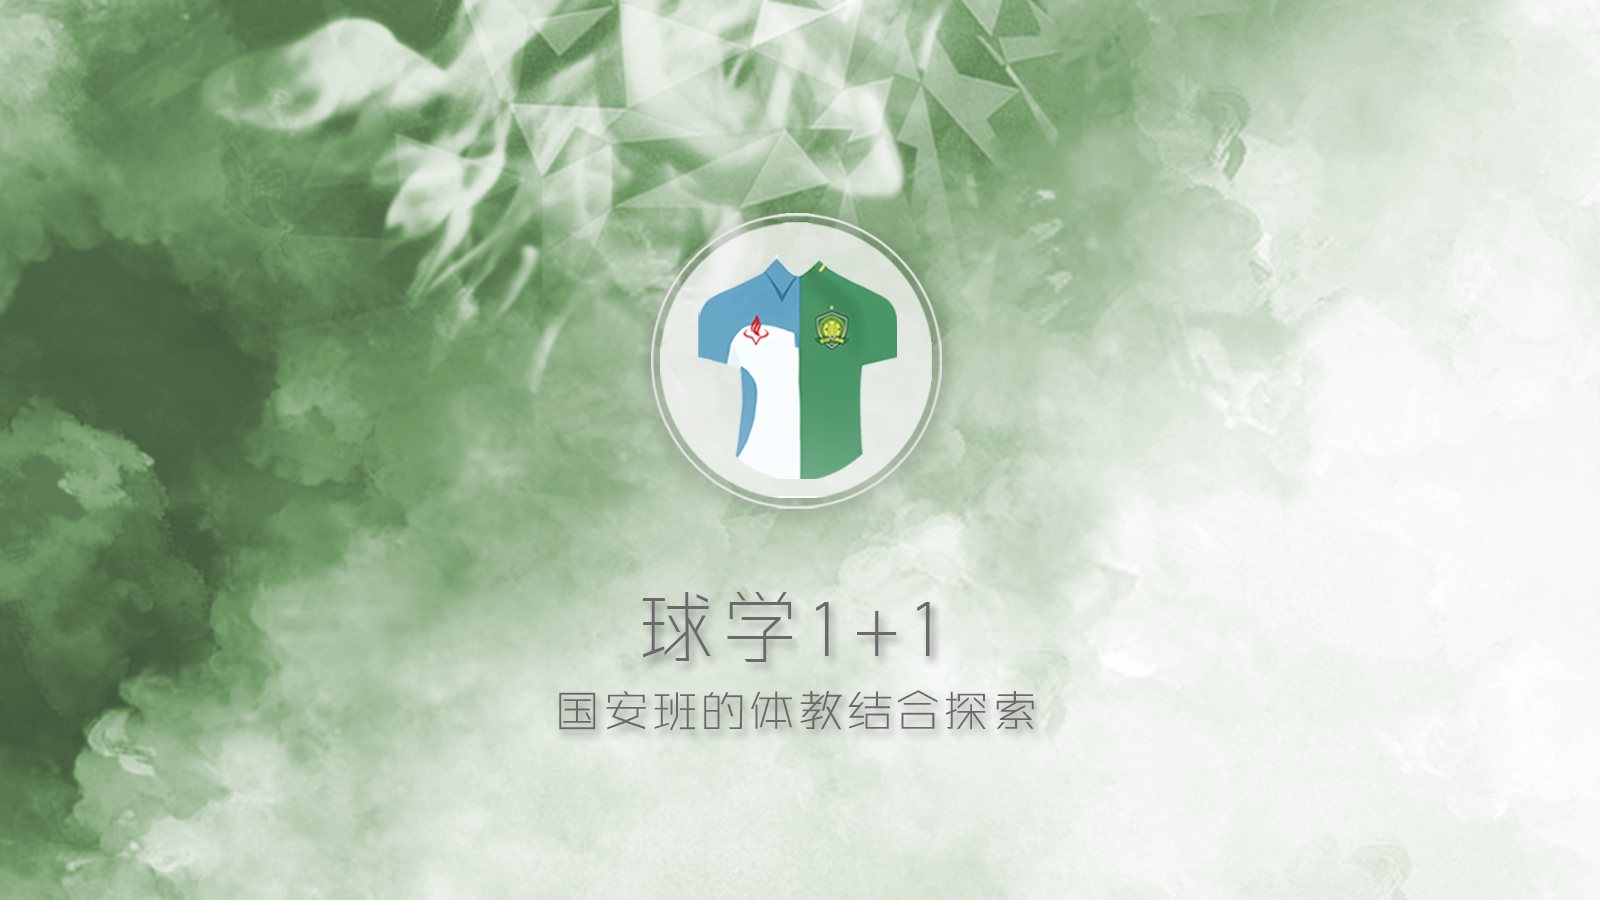
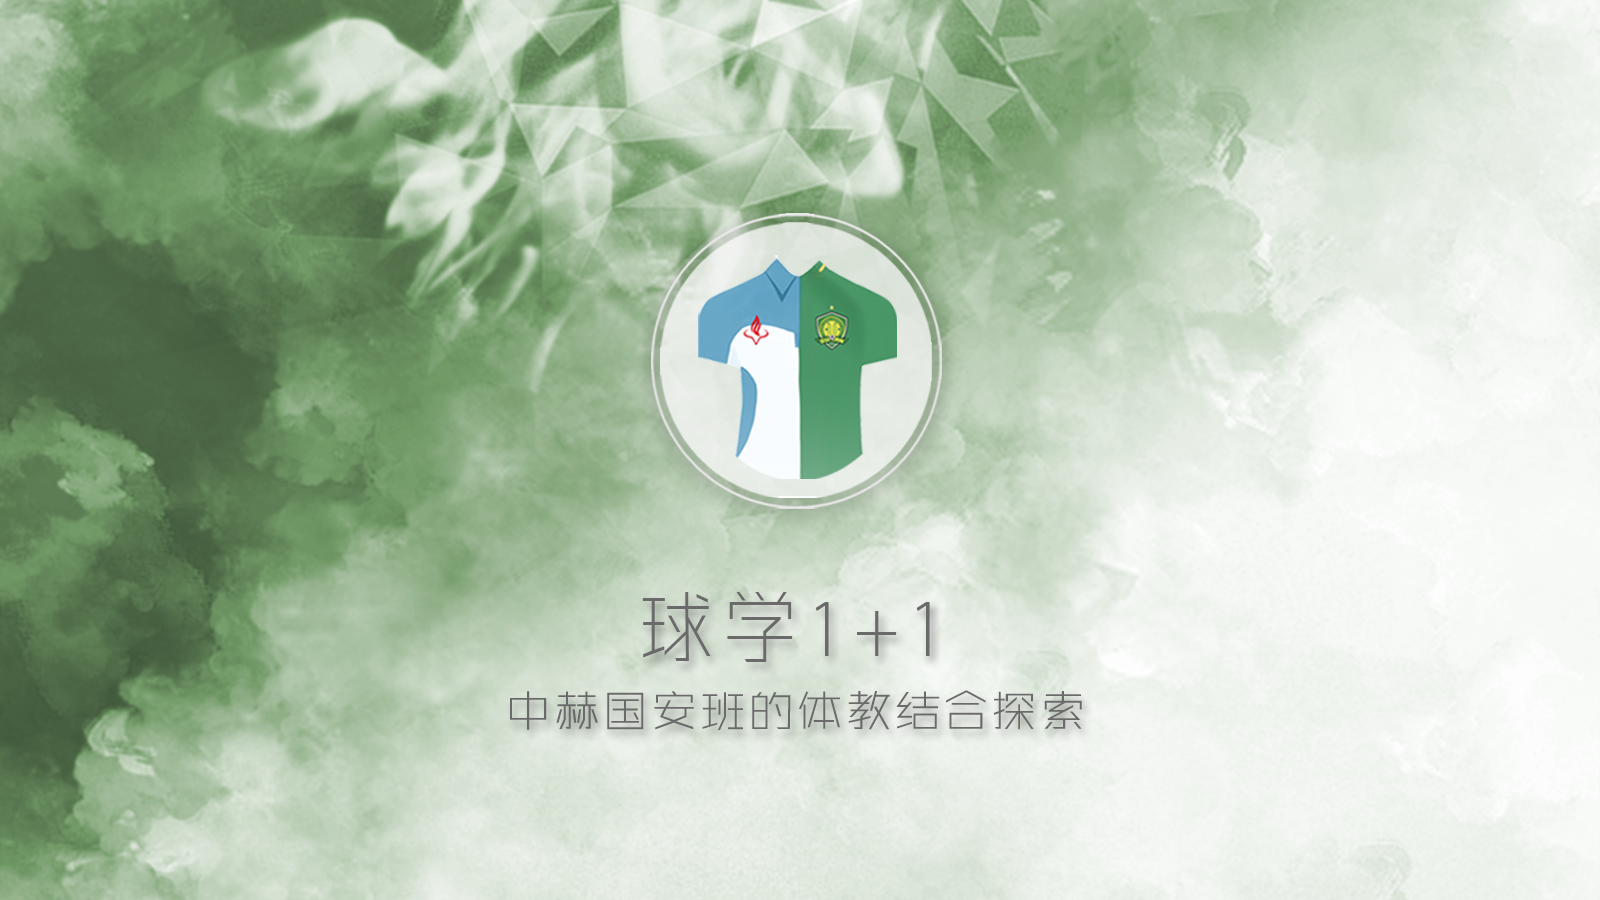
modify

Changed region(s): [[0.3125, 0.7467, 0.6875, 0.8089]]

diff --git a/index.html b/index.html
@@ -4,7 +4,7 @@
 <head>
 	<meta charset="utf-8">
 	<meta name="viewport" content="width=device-width, initial-scale=1">
-	<title>球学1+1——“国安班”的体教结合探索</title>
+	<title>球学1+1——中赫国安班的体教结合探索</title>
 	<link rel="stylesheet" href="css/aos.css" type="text/css">
 	<link rel="stylesheet" href="css/skippr.css">
 	<link href="css/video-js.min.css" rel="stylesheet" type="text/css">
@@ -776,9 +776,9 @@
 	</div>
 	<div id="daoyu">
 		<p>
-			<span class="first">2017年，</span>中赫国安足球俱乐部与牛栏山一中实验学校携手创建“中赫国安班”，俱乐部2002、2003年龄段梯队作为第一批队员进入“国安班”学习，小球员们上午在学校学习初中文化知识，下午回到青训基地进行足球训练。</p>
+			<span class="first">2017年，</span>北京中赫国安足球俱乐部与牛栏山一中实验学校携手创建中赫国安班，俱乐部2002、2003年龄段梯队作为第一批队员进入中赫国安班学习，小球员们上午在学校学习初中文化知识，下午回到青训基地进行足球训练。</p>
 		<p>长久以来，我国职业运动员的培养容易走向成长的不平衡——精湛了青少年运动员运动技能的同时也带来了文化素质的缺失和与同龄人的隔绝。</p>
-		<p>如今，“体教结合”的呼声日益高涨，而“中赫国安班”的创立不失为一种探索：“国安班”的球员是否可以在踢球的同时不必放弃学业？职业与学业，这对传统意义上的鱼和熊掌，究竟能否兼得？</p>
+		<p>如今，“体教结合”的呼声日益高涨，而中赫国安班的创立不失为一种探索：中赫国安班的球员是否可以在踢球的同时不必放弃学业？职业与学业，这对传统意义上的鱼和熊掌，究竟能否兼得？</p>
 
 	</div>
 	<div id="section1-top">
@@ -794,7 +794,7 @@
 	<div class="section A">
 		<p>五月末的北京，太阳用不知疲倦的炙烤宣示着炎夏的来临。下午三点，室外仍然酷热难耐，阳光把球场的草皮灼得发烫，也蒸腾出青草的阵阵沁香。16岁的苏铮和伙伴们鱼贯而入，围拢到教练身边，听取训练安排。</p>
 
-		<p>这是他来到“国安班”的第十个月；</p>
+		<p>这是他来到中赫国安班的第十个月；</p>
 		<p>这是他踢足球的第十年。</p>
 
 	</div>
@@ -839,7 +839,7 @@
 	</div>
 
 	<div class="section">
-		<p>2017年的7月25日，中赫国安U16梯队正式组建。U16主教练、前国脚翟飙介绍，U16梯队的球员来源广泛，既有像苏铮这样土生土长的北京孩子，也有来自全国各地的足球苗子：</p>
+		<p>2017年7月25日，中赫国安U16梯队正式组建。U16主教练、前国脚翟飙介绍，U16梯队的球员来源广泛，既有像苏铮这样土生土长的北京孩子，也有来自全国各地的足球苗子：</p>
 		<div id="container" style="height: 600px;width:900px;background:white;margin:20px 0 0;" data-aos="fade-down"></div>
 		<p>来自五湖四海的队员一方面增加了球队的包容性，另一方面，球员们正值十五六岁的年纪，天性的好动与地域的差异让队员间难免产生摩擦，这也对球队管理提出了挑战。</p>
 		<p>“刚来北京时普通话说得不好，都讲自己的方言，互相听不懂，也老吵架。”谈到初来乍到时和队友闹出的不愉快，来自湖北的刘石开不好意思地挠了挠头。</p>
@@ -910,7 +910,7 @@
 		<p class="fengge">“受伤时很着急，怕（因此）踢不到职业俱乐部。”——刘石开</p>
 		<p class="fengge">“回家时间很少，也很想家。但是走职业（路线），必须克服。”——贾昕岳</p>
 
-		<p>“国安班”的每一名小球员都有一个球星梦，教练也期望着从这里能够走出未来的足球明星。然而逐梦之路注定道阻且长，等待他们的不仅是技术的磨砺、也有伤病的折磨与心理的考验。</p>
+		<p>中赫国安班的每一名小球员都有一个球星梦，教练也期望着从这里能够走出未来的足球明星。然而逐梦之路注定道阻且长，等待他们的不仅是技术的磨砺、也有伤病的折磨与心理的考验。</p>
 
 
 		<div class="fenlan">
@@ -973,14 +973,14 @@
 
 
 	<div class="section">
-		<p>走在牛栏山一中实验学校的校园里，绿色的中赫国安队服与长年训练馈赠的黝黑肤色让国安班的学生显得格外突出。在这里，U16梯队的队员们被分入中赫国安1班和中赫国安2班两个班级，学习初三年级的语文、数学、英语、物理、政治、历史六门课程。</p>
+		<p>走在牛栏山一中实验学校的校园里，绿色的中赫国安队服与长年训练馈赠的黝黑肤色让中赫国安班的学生显得格外突出。在这里，U16梯队的队员们被分入中赫国安1班和中赫国安2班两个班级，学习初三年级的语文、数学、英语、物理、政治、历史六门课程。</p>
 
 		<p>谈及中赫国安与学校合作的原因，牛栏山一中实验学校德育处主任李海宝老师将其总结为“资源共享”：“中赫国安需要我们的优质资源来为球员提供文化教育，学校也需要中赫国安的优质资源来发展校园足球，双方因此一拍即合。”</p>
 
 
 		<div id="1-2" class="clearfix">
 			<div id="text1-2" class="text">
-				<p>学校足球队主教练韩泽山老师认为国安班的到来给校队带来了很大帮助：“尽管由于一些场地的限制，我们（校队和中赫国安梯队）平时不能在一起训练，但是双方可以比赛。通过比赛，我们校队的队员也从中赫国安的小队员身上学到了许多，技战术的配合、在球场上的意识以及在球场上的团结性都有所提升。”此外，在寒暑假期间，牛栏山一中实验学校足球队的队员还可以前往中赫国安基地，与中赫国安的青训梯队一同训练。
+				<p>学校足球队主教练韩泽山老师认为中赫国安班的到来给校队带来了很大帮助：“尽管由于一些场地的限制，我们（校队和中赫国安梯队）平时不能在一起训练，但是双方可以比赛。通过比赛，我们校队的队员也从中赫国安的小队员身上学到了许多，技战术的配合、在球场上的意识以及在球场上的团结性都有所提升。”此外，在寒暑假期间，牛栏山一中实验学校足球队的队员还可以前往中赫国安基地，与中赫国安的青训梯队一同训练。
 				</p>
 			</div>
 
@@ -1005,7 +1005,7 @@
 
 		<div id="1-3" class="clearfix">
 			<div id="text1-2" class="text">
-				<p>从中获益的不仅是校队，“国安班”的到来也让这所本就以校园足球而闻名的学校有了更加浓厚足球氛围。同学们参与班级联赛、校级联赛的积极性更高了，李海宝老师也提到，学校计划在下一年的校园足球联赛中将“国安班”学生打散编入普通班级，让普通学生获得与高水平球员交流技艺的机会。</p>
+				<p>从中获益的不仅是校队，中赫国安班的到来也让这所本就以校园足球而闻名的学校有了更加浓厚足球氛围。同学们参与班级联赛、校级联赛的积极性更高了，李海宝老师也提到，学校计划在下一年的校园足球联赛中将中赫国安班的学生打散编入普通班级，让普通学生获得与高水平球员交流技艺的机会。</p>
 				<p>而到名校读书、过与同龄人一样的校园生活，也是中赫国安梯队的小球员此前未曾想象过的。刘石开之前在体校就读，普通中学生井井有条的作息规律与牛一实验优美的校园环境都让他感到兴奋：“作息比在体校时更有规律，校园环境也好了太多。”
 				</p>
 			</div>
@@ -1037,8 +1037,8 @@
 
 
 	<div class="section">
-		<p>如果说“体教结合，全面育人”是美好的理想，那么队员学习水平参差不齐、学习欲望难如人意便是“国安班”略显尴尬的现实。</p>
-		<p>	“和普通班级的学生相比，‘国安班’的学生沟通能力更强，性格也比较好，”负责“国安班”数学教学的赵贺锋老师说道，“但是学生的接受能力、学习欲望的确差异很大。”</p>
+		<p>如果说“体教结合，全面育人”是美好的理想，那么队员学习水平参差不齐、学习欲望难如人意便是“中赫国安班”略显尴尬的现实。</p>
+		<p>	“和普通班级的学生相比，‘中赫国安班’的学生沟通能力更强，性格也比较好，”负责“中赫国安班”数学教学的赵贺锋老师说道，“但是学生的接受能力、学习欲望的确差异很大。”</p>
 			
 		<p>
 			<div class="jinqiu">
@@ -1049,14 +1049,14 @@
 		</p>
 		<p>中赫国安U16梯队的队员有的已经完成了初中课程的学习，有的文化程度还停留在初一水平，这也给老师的授课带来了很大难度。</p>
 		<p>“一节课，如果能让所有的学生都听明白了，这节课的课程设置上面会困难特别大，”赵老师坦言，学生的整体水平让他无法按照原先计划讲授初三内容，“后来我调整了计划，从初一的内容，甚至从六年级的内容拉出来一部分开始讲，慢慢地加大难度，这样，跟着老师走的学生也越来越多。”</p>
-		<p>与数学老师降低难度、循序渐进的方法不同，英语老师林荣吸引学生兴趣的方法是把课程内容与足球结合起来，最大程度地贴近“国安班”的日常生活和运用需要。</p>
+		<p>与数学老师降低难度、循序渐进的方法不同，英语老师林荣吸引学生兴趣的方法是把课程内容与足球结合起来，最大程度地贴近中赫国安班的日常生活和运用需要。</p>
 		
 
 
 		<div class="row yingyulaoshi">
 			<div class="one_half">
 				<blockquote>
-					<p>“我们为‘国安班’专门研发开设了一门英语听说课，讲授和足球相关的英语。”林荣老师说，“有次我在课上放了一个足球视频，孩子们看了马上就指出‘老师，你这个视频不对，现在足球不这样踢’，所以我和他们也是互相学习、教学相长。”</p>
+					<p>“我们为中赫国安班专门研发开设了一门英语听说课，讲授和足球相关的英语。”林荣老师说，“有次我在课上放了一个足球视频，孩子们看了马上就指出‘老师，你这个视频不对，现在足球不这样踢’，所以我和他们也是互相学习、教学相长。”</p>
 					<p class="youduiqi">——林荣 | 牛栏山一中英语老师</p>
 				</blockquote>
 			</div>
@@ -1065,10 +1065,10 @@
 			</div>
 		</div>
 
-		<p>然而，比起知识的习得，对于“国安班”的学生而言，更加重要也更为艰难的是观念的转变。2017年9月之前，梯队在香河足球训练基地训练生活。受地理位置所限，俱乐部很难为梯队队员配备相应的教学资源，队员们文化课的教育情况比较贫乏。“国安班”最初组建时，部分队员认为“学习无用”，牛栏山的老师也反映“坚持学习的人并不占多数”。</p>
+		<p>然而，比起知识的习得，对于中赫国安班的学生而言，更加重要也更为艰难的是观念的转变。2017年9月之前，梯队在香河足球训练基地训练生活。受地理位置所限，俱乐部很难为梯队队员配备相应的教学资源，队员们文化课的教育情况比较贫乏。中赫国安班最初组建时，部分队员认为“学习无用”，牛栏山的老师也反映“坚持学习的人并不占多数”。</p>
 		<p>为了让学生回归课堂，老师们也用尽了心思。作为“体教结合”这条路上的拓荒者，他们在摸索中不断前行，经过近一年的努力，有越来越多的学生能够“坐得住、听得进”，回到了课堂。</p>
 		<p>苏铮认为文化教育能让他们变得更充实：“语文的学习，英语的学习，不管是在国内国外，还是场上场下，都能让我们沟通得更好。数学能开阔我们的思维。足球除了是用脚踢，其实实际上是在用脑子踢。”</p>
-		<p>孩子们身上发生的变化令人欣喜，但赵老师心里清楚，他们现在完成的不过是“万里长征第一步”。无论是降低教学难度还是改变教学手段，都是“术”之层面的实践，虽然能让学生坐得住、听得进、不再抗拒学习，但也只是治“标”，而要想治“本”，将消极的“要我学”变为积极的“我要学”，他们还需要“道”的引领。“我觉得‘国安班’的孩子们需要专业职业规划老师的引导，”赵老师说，“我们（学科教师）的能力毕竟有限，需要有专业的老师教他们做职业规划，让孩子们清楚自己现在所处的是什么位置、应该做些什么。”</p>
+		<p>孩子们身上发生的变化令人欣喜，但赵老师心里清楚，他们现在完成的不过是“万里长征第一步”。无论是降低教学难度还是改变教学手段，都是“术”之层面的实践，虽然能让学生坐得住、听得进、不再抗拒学习，但也只是治“标”，而要想治“本”，将消极的“要我学”变为积极的“我要学”，他们还需要“道”的引领。“我觉得中赫国安班的孩子们需要专业职业规划老师的引导，”赵老师说，“我们（学科教师）的能力毕竟有限，需要有专业的老师教他们做职业规划，让孩子们清楚自己现在所处的是什么位置、应该做些什么。”</p>
 
 		<div id="xuexi" class="clearfix">
 		<div id="fanshu">
@@ -1082,8 +1082,8 @@
 			</video>
 		</div>
 	</div>
-		<p>以往，中赫国安都是在队员15岁以后、也就是完成九年义务教育后再将其招入青训梯队进行职业化训练，直到中国足协规定俱乐部需建立更小年龄梯队之后，青训梯队才有了硬性的教育方面的需求，“国安班”的模式也是俱乐部为队员提供文化教育的首次尝试；同样，作为“第一个吃螃蟹”的牛栏山一中，“体教结合”模式下对课程设置、教学管理等方面的初步探索也难免存在不成熟之处。</p>
-		<p>中赫国安青少部体系发展经理韩涛介绍，俱乐部和牛栏山一中签署了三年的首期“国安班”协议，今年9月，中赫国安05、06梯队将入校读初一。俱乐部和学校都希望在借鉴现有经验教训的基础上对“国安班”的教学模式进行优化，从而让孩子们更好地学习知识、感受校园氛围，并且在时间不冲突的情况下，更多地参与学校组织的社会实践活动，更多地接触社会、了解社会。</p>
+		<p>以往，中赫国安都是在队员15岁以后、也就是完成九年义务教育后再将其招入青训梯队进行职业化训练，直到中国足协规定俱乐部需建立更小年龄梯队之后，青训梯队才有了硬性的教育方面的需求，“中赫国安班”的模式也是俱乐部为队员提供文化教育的首次尝试；同样，作为“第一个吃螃蟹”的牛栏山一中，“体教结合”模式下对课程设置、教学管理等方面的初步探索也难免存在不成熟之处。</p>
+		<p>北京中赫国安青少部体系发展经理韩涛介绍，俱乐部和牛栏山一中签署了三年的首期“中赫国安班”协议，今年9月，中赫国安05、06梯队将入校读初一。俱乐部和学校都希望在借鉴现有经验教训的基础上对中赫国安班的教学模式进行优化，从而让孩子们更好地学习知识、感受校园氛围，并且在时间不冲突的情况下，更多地参与学校组织的社会实践活动，更多地接触社会、了解社会。</p>
 
 	</div>
 
